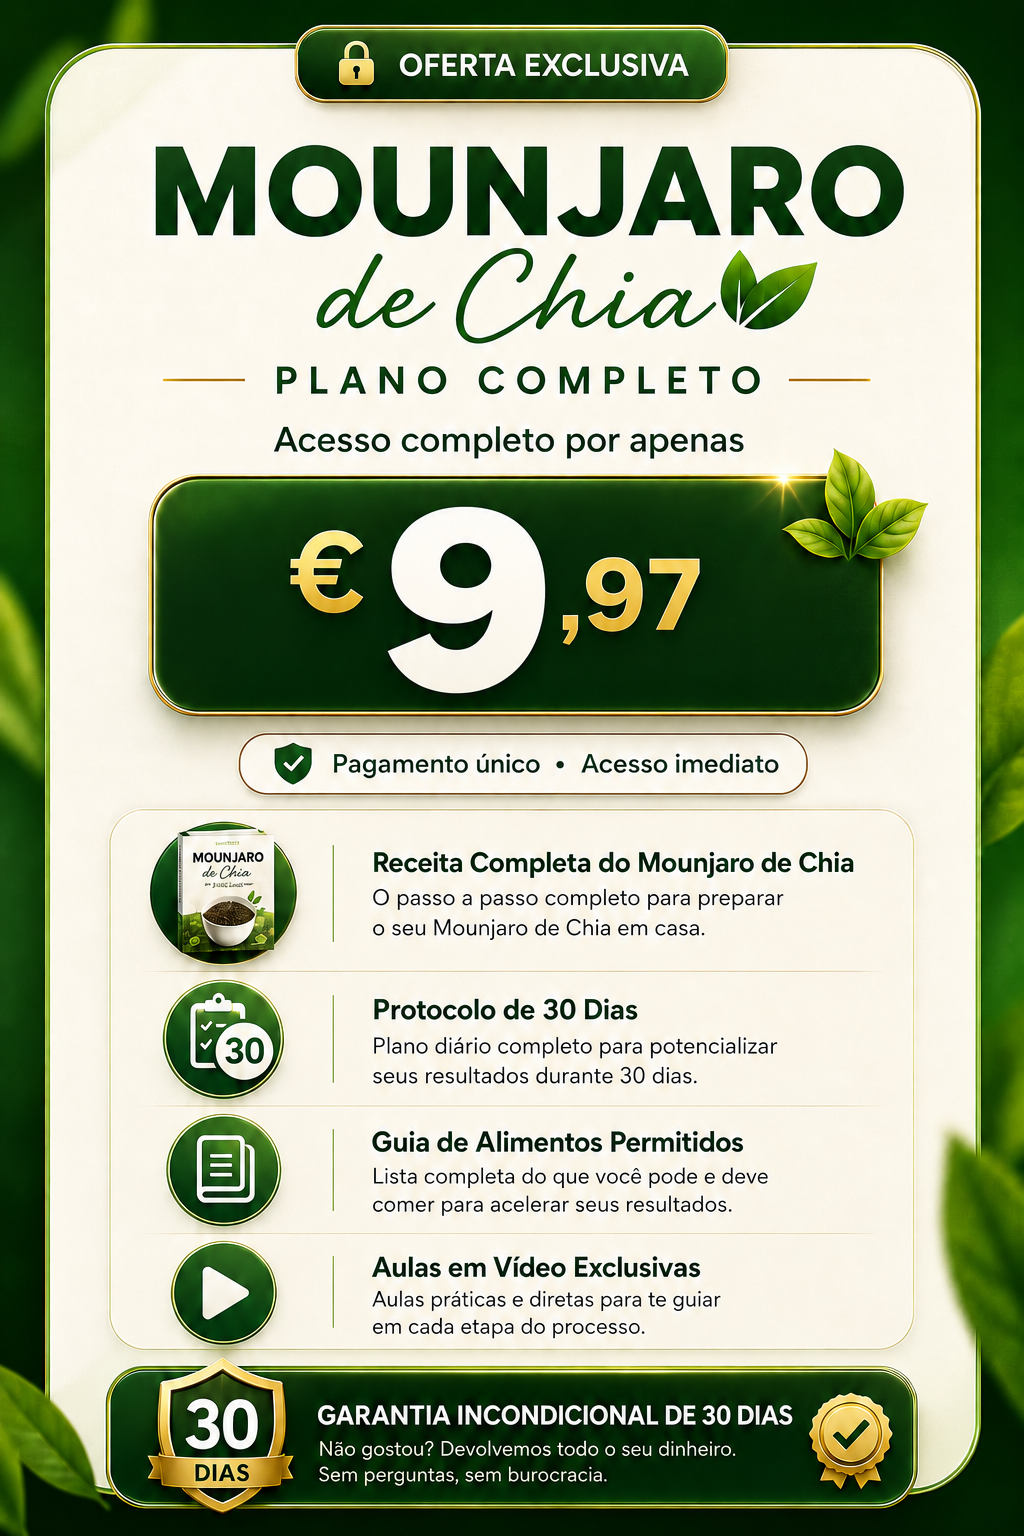
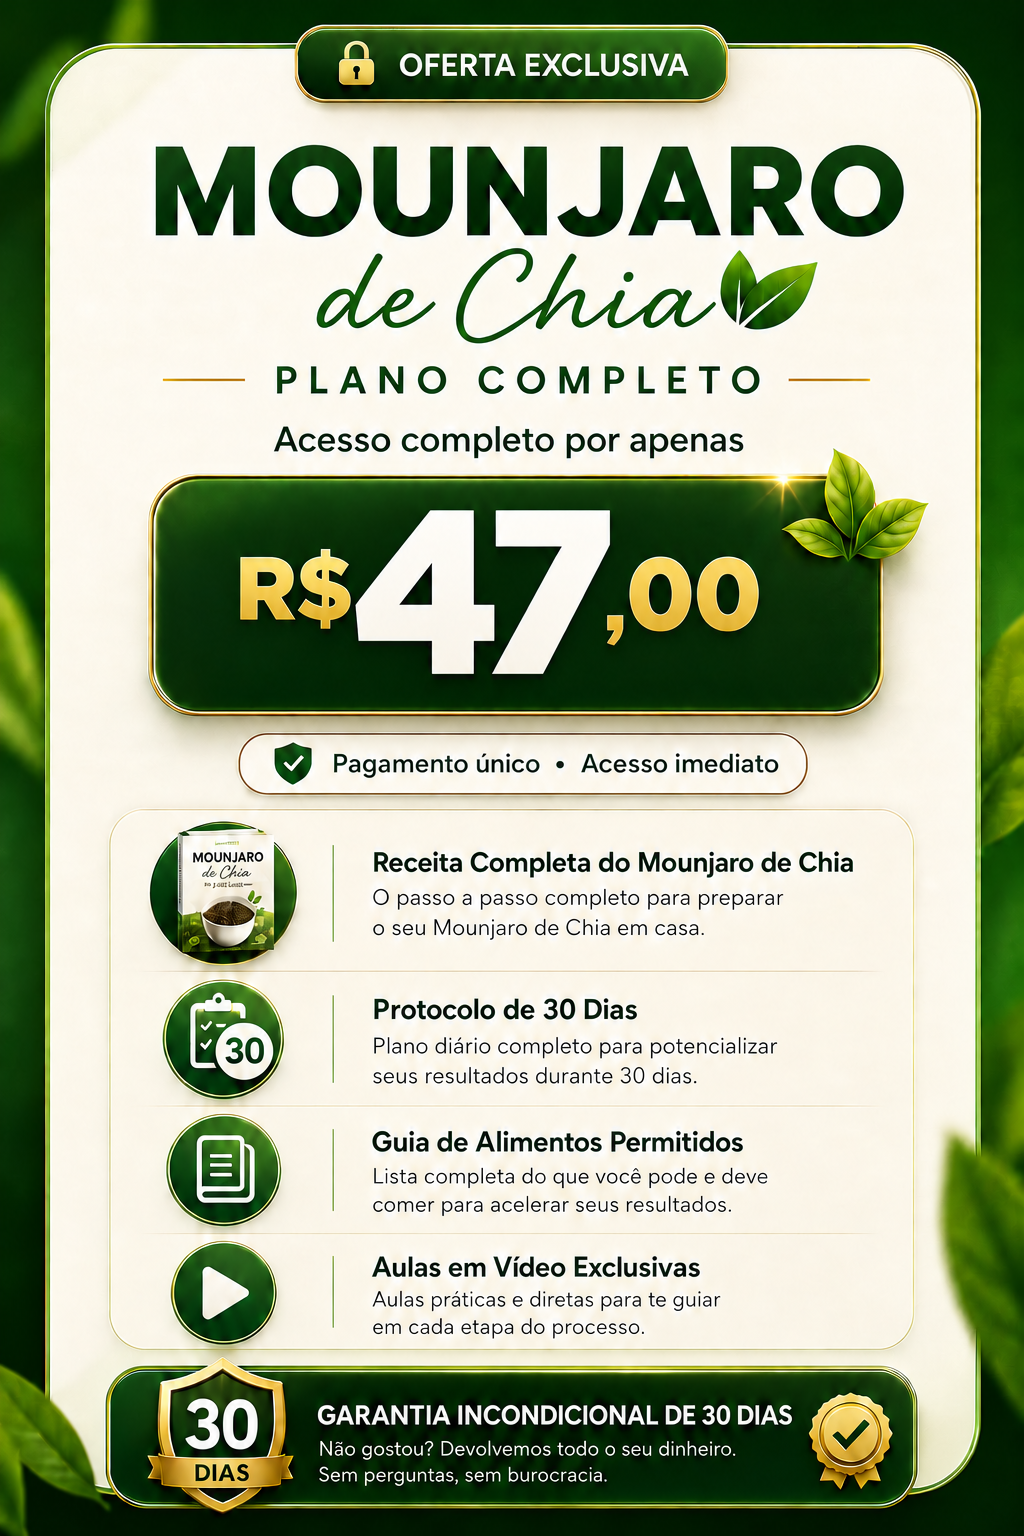
Update final offer prices

diff --git a/index.html b/index.html
@@ -711,15 +711,15 @@ const CONFIG = {
     {
       image: 'oferta-pt-padrao.png',
       checkout: 'https://pay.hotmart.com/R107831302K?checkoutMode=10',
-      cta: 'QUERO O PLANO COMPLETO — € 9,97',
-      alt: 'Plano Completo do Mounjaro de Chia por € 9,97',
+      cta: 'QUERO O PLANO COMPLETO — R$ 47,00',
+      alt: 'Plano Completo do Mounjaro de Chia por R$ 47,00',
       evento: 'checkout_click_padrao',
     },
     {
       image: 'oferta-pt-premium.png',
       checkout: 'https://pay.hotmart.com/R107831302K?off=luezqcgt&checkoutMode=10',
-      cta: 'QUERO O PLANO PREMIUM — € 29,97',
-      alt: 'Plano Premium Completo do Mounjaro de Chia por € 29,97',
+      cta: 'QUERO O PLANO PREMIUM — R$ 97,00',
+      alt: 'Plano Premium Completo do Mounjaro de Chia por R$ 97,00',
       evento: 'checkout_click_premium',
     },
   ],
@@ -728,15 +728,15 @@ const CONFIG = {
     {
       image: 'oferta-pt-padrao.png',
       checkout: 'https://pay.hotmart.com/R107831302K?checkoutMode=10',
-      cta: 'QUERO O PLANO COMPLETO — € 9,97',
-      alt: 'Plano Completo do Mounjaro de Chia por € 9,97',
+      cta: 'QUERO O PLANO COMPLETO — R$ 47,00',
+      alt: 'Plano Completo do Mounjaro de Chia por R$ 47,00',
       evento: 'checkout_click_padrao',
     },
     {
       image: 'oferta-pt-premium.png',
       checkout: 'https://pay.hotmart.com/R107831302K?off=luezqcgt&checkoutMode=10',
-      cta: 'QUERO O PLANO PREMIUM — € 29,97',
-      alt: 'Plano Premium Completo do Mounjaro de Chia por € 29,97',
+      cta: 'QUERO O PLANO PREMIUM — R$ 97,00',
+      alt: 'Plano Premium Completo do Mounjaro de Chia por R$ 97,00',
       evento: 'checkout_click_premium',
     },
   ],
